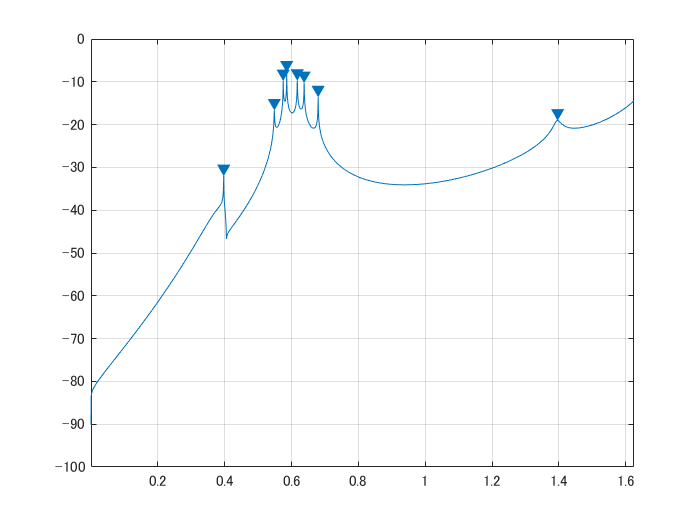
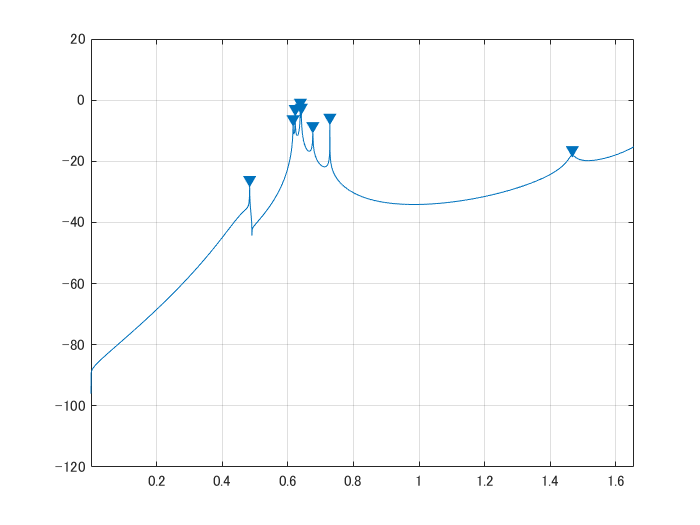
asdasd

diff --git a/main_delated_vRTD_calculator.m b/main_delated_vRTD_calculator.m
@@ -21,7 +21,7 @@ N = RTD_Designs(layer).NX;
 
 
 
-V_all=1;%2.21906;
+V_all=1.2;%2.21906;
 
 v = potential(V_all);
 zn = (1 : N)*const.dx*1e9;
@@ -186,7 +186,7 @@ function En = getconfinedstates(n, v, mass)
     end    
     
     [p, Es, w] = findpeaks(log(sqrt(T)), E);
-    dE = const.dE_sca + w;
+    %dE = const.dE_sca + w;
     if n < length(Es)
         En = Es(1:n);
     else
